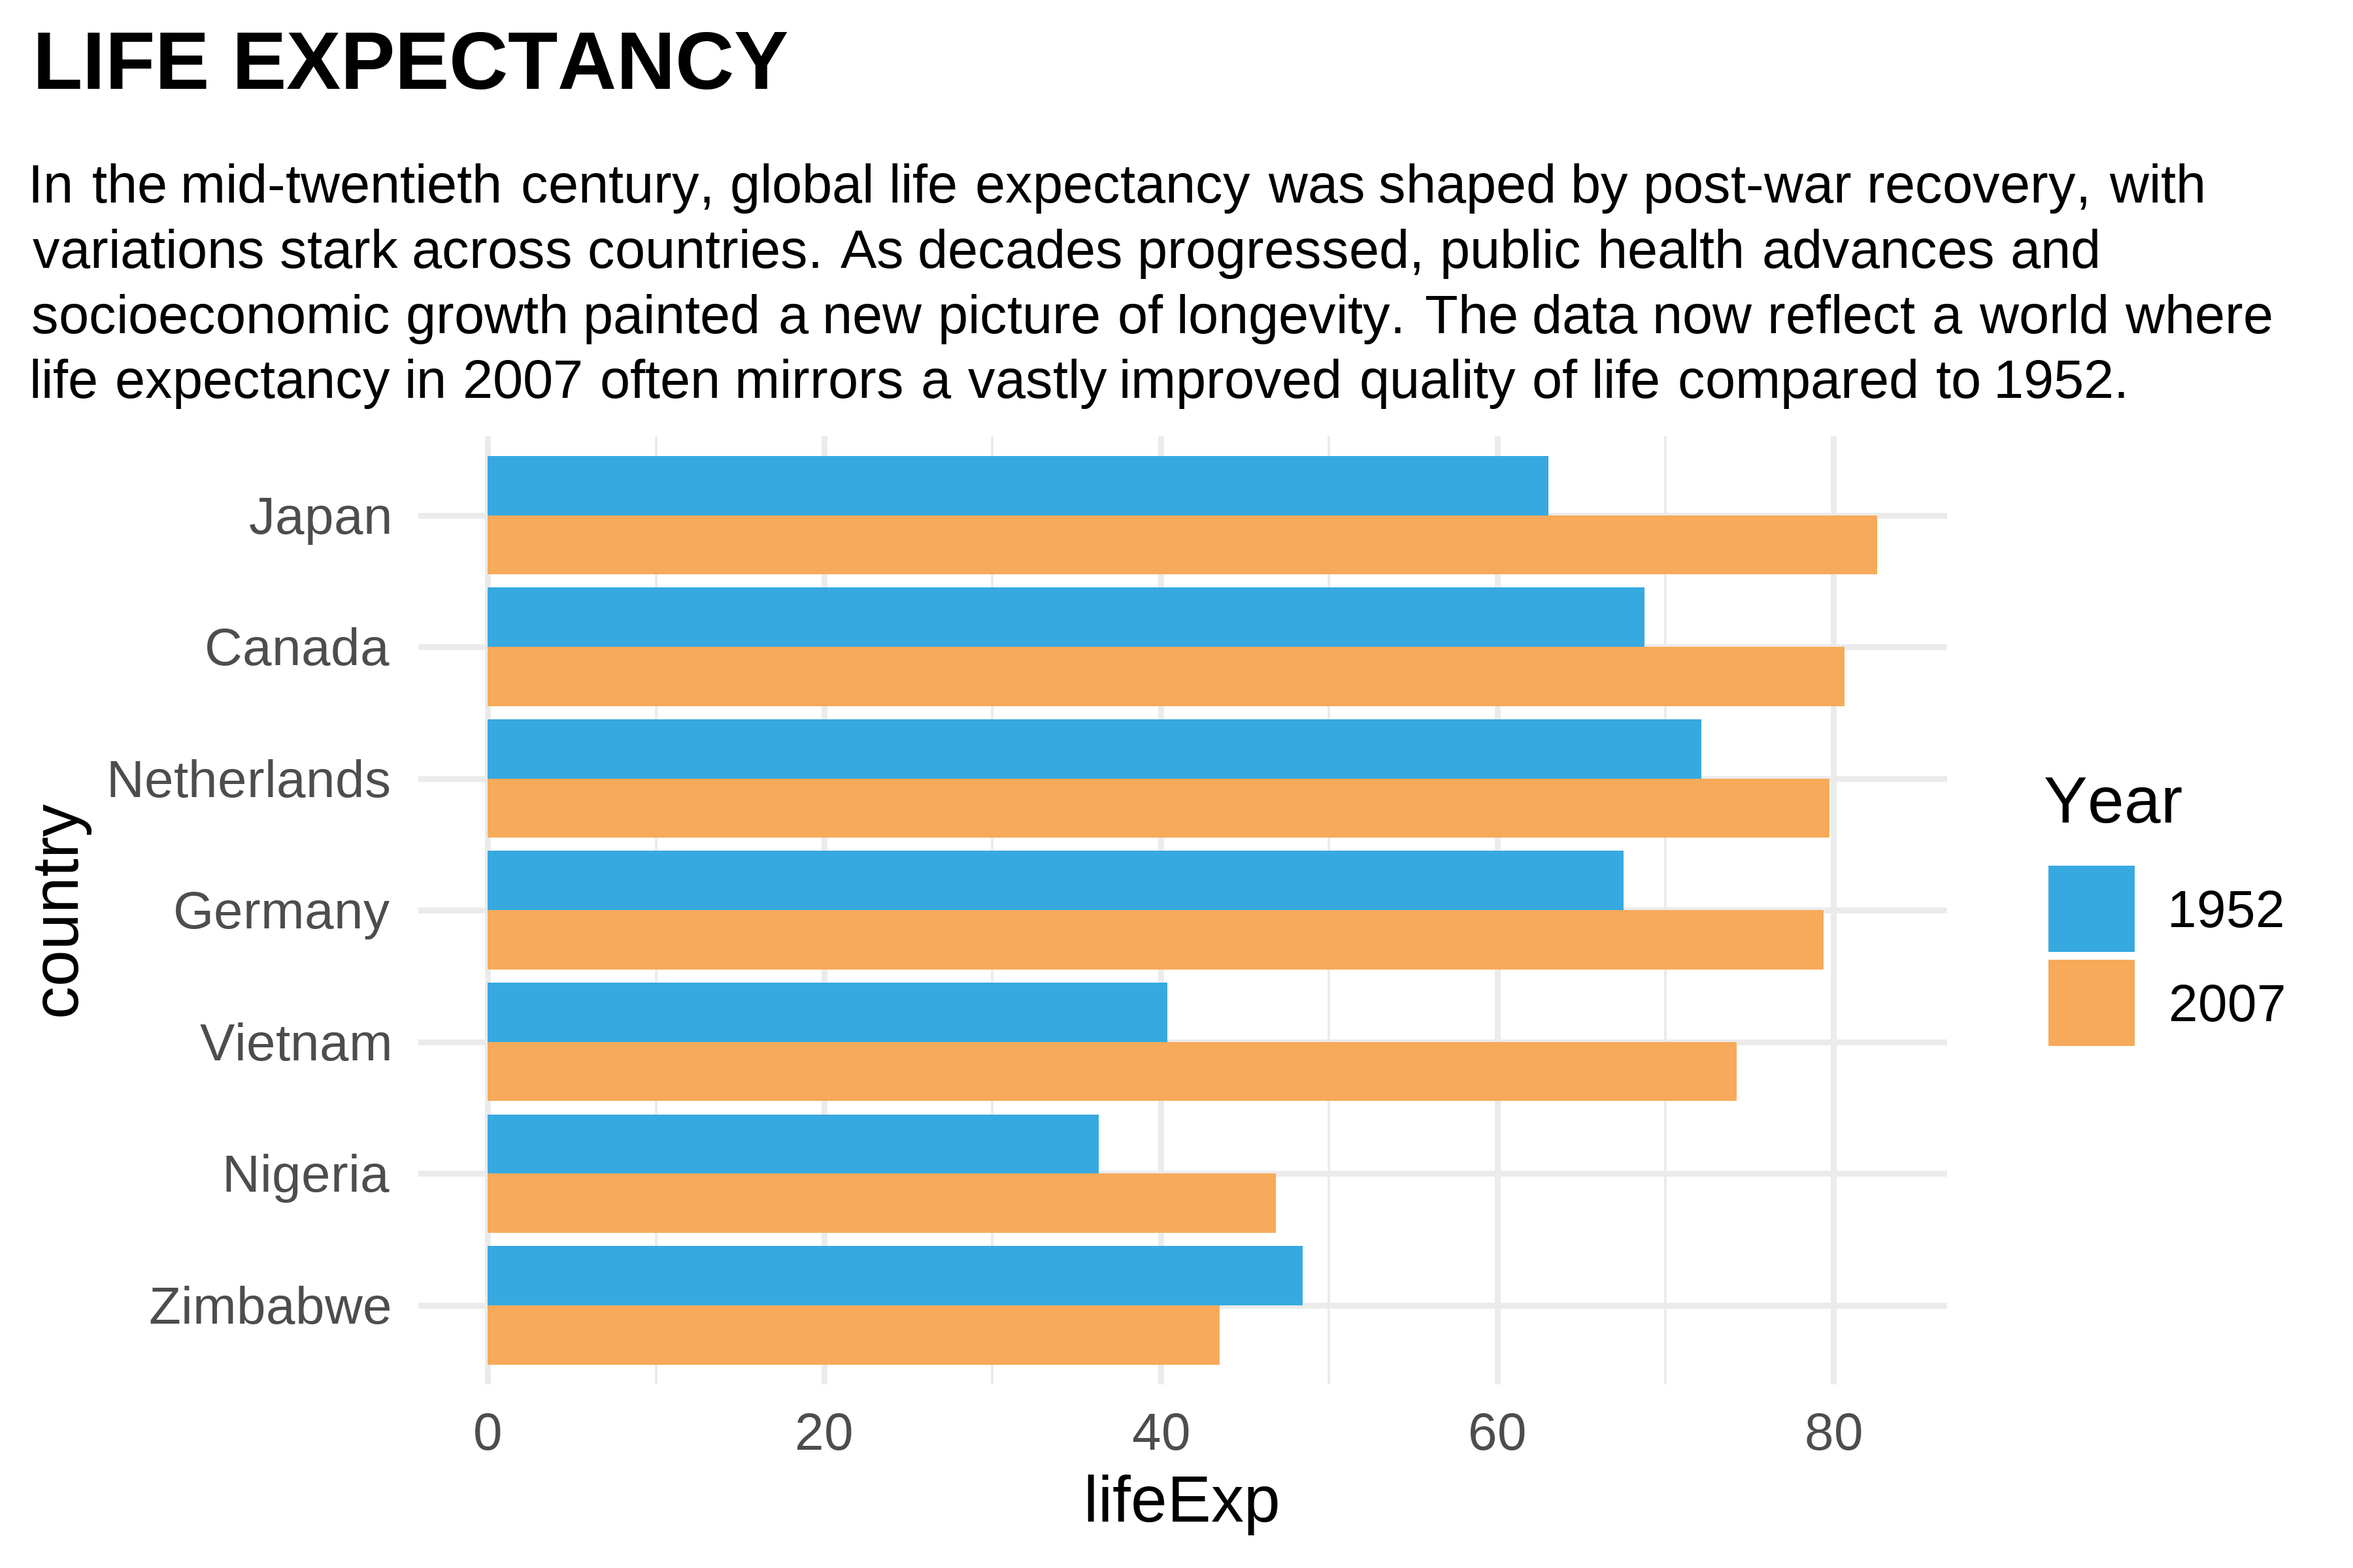
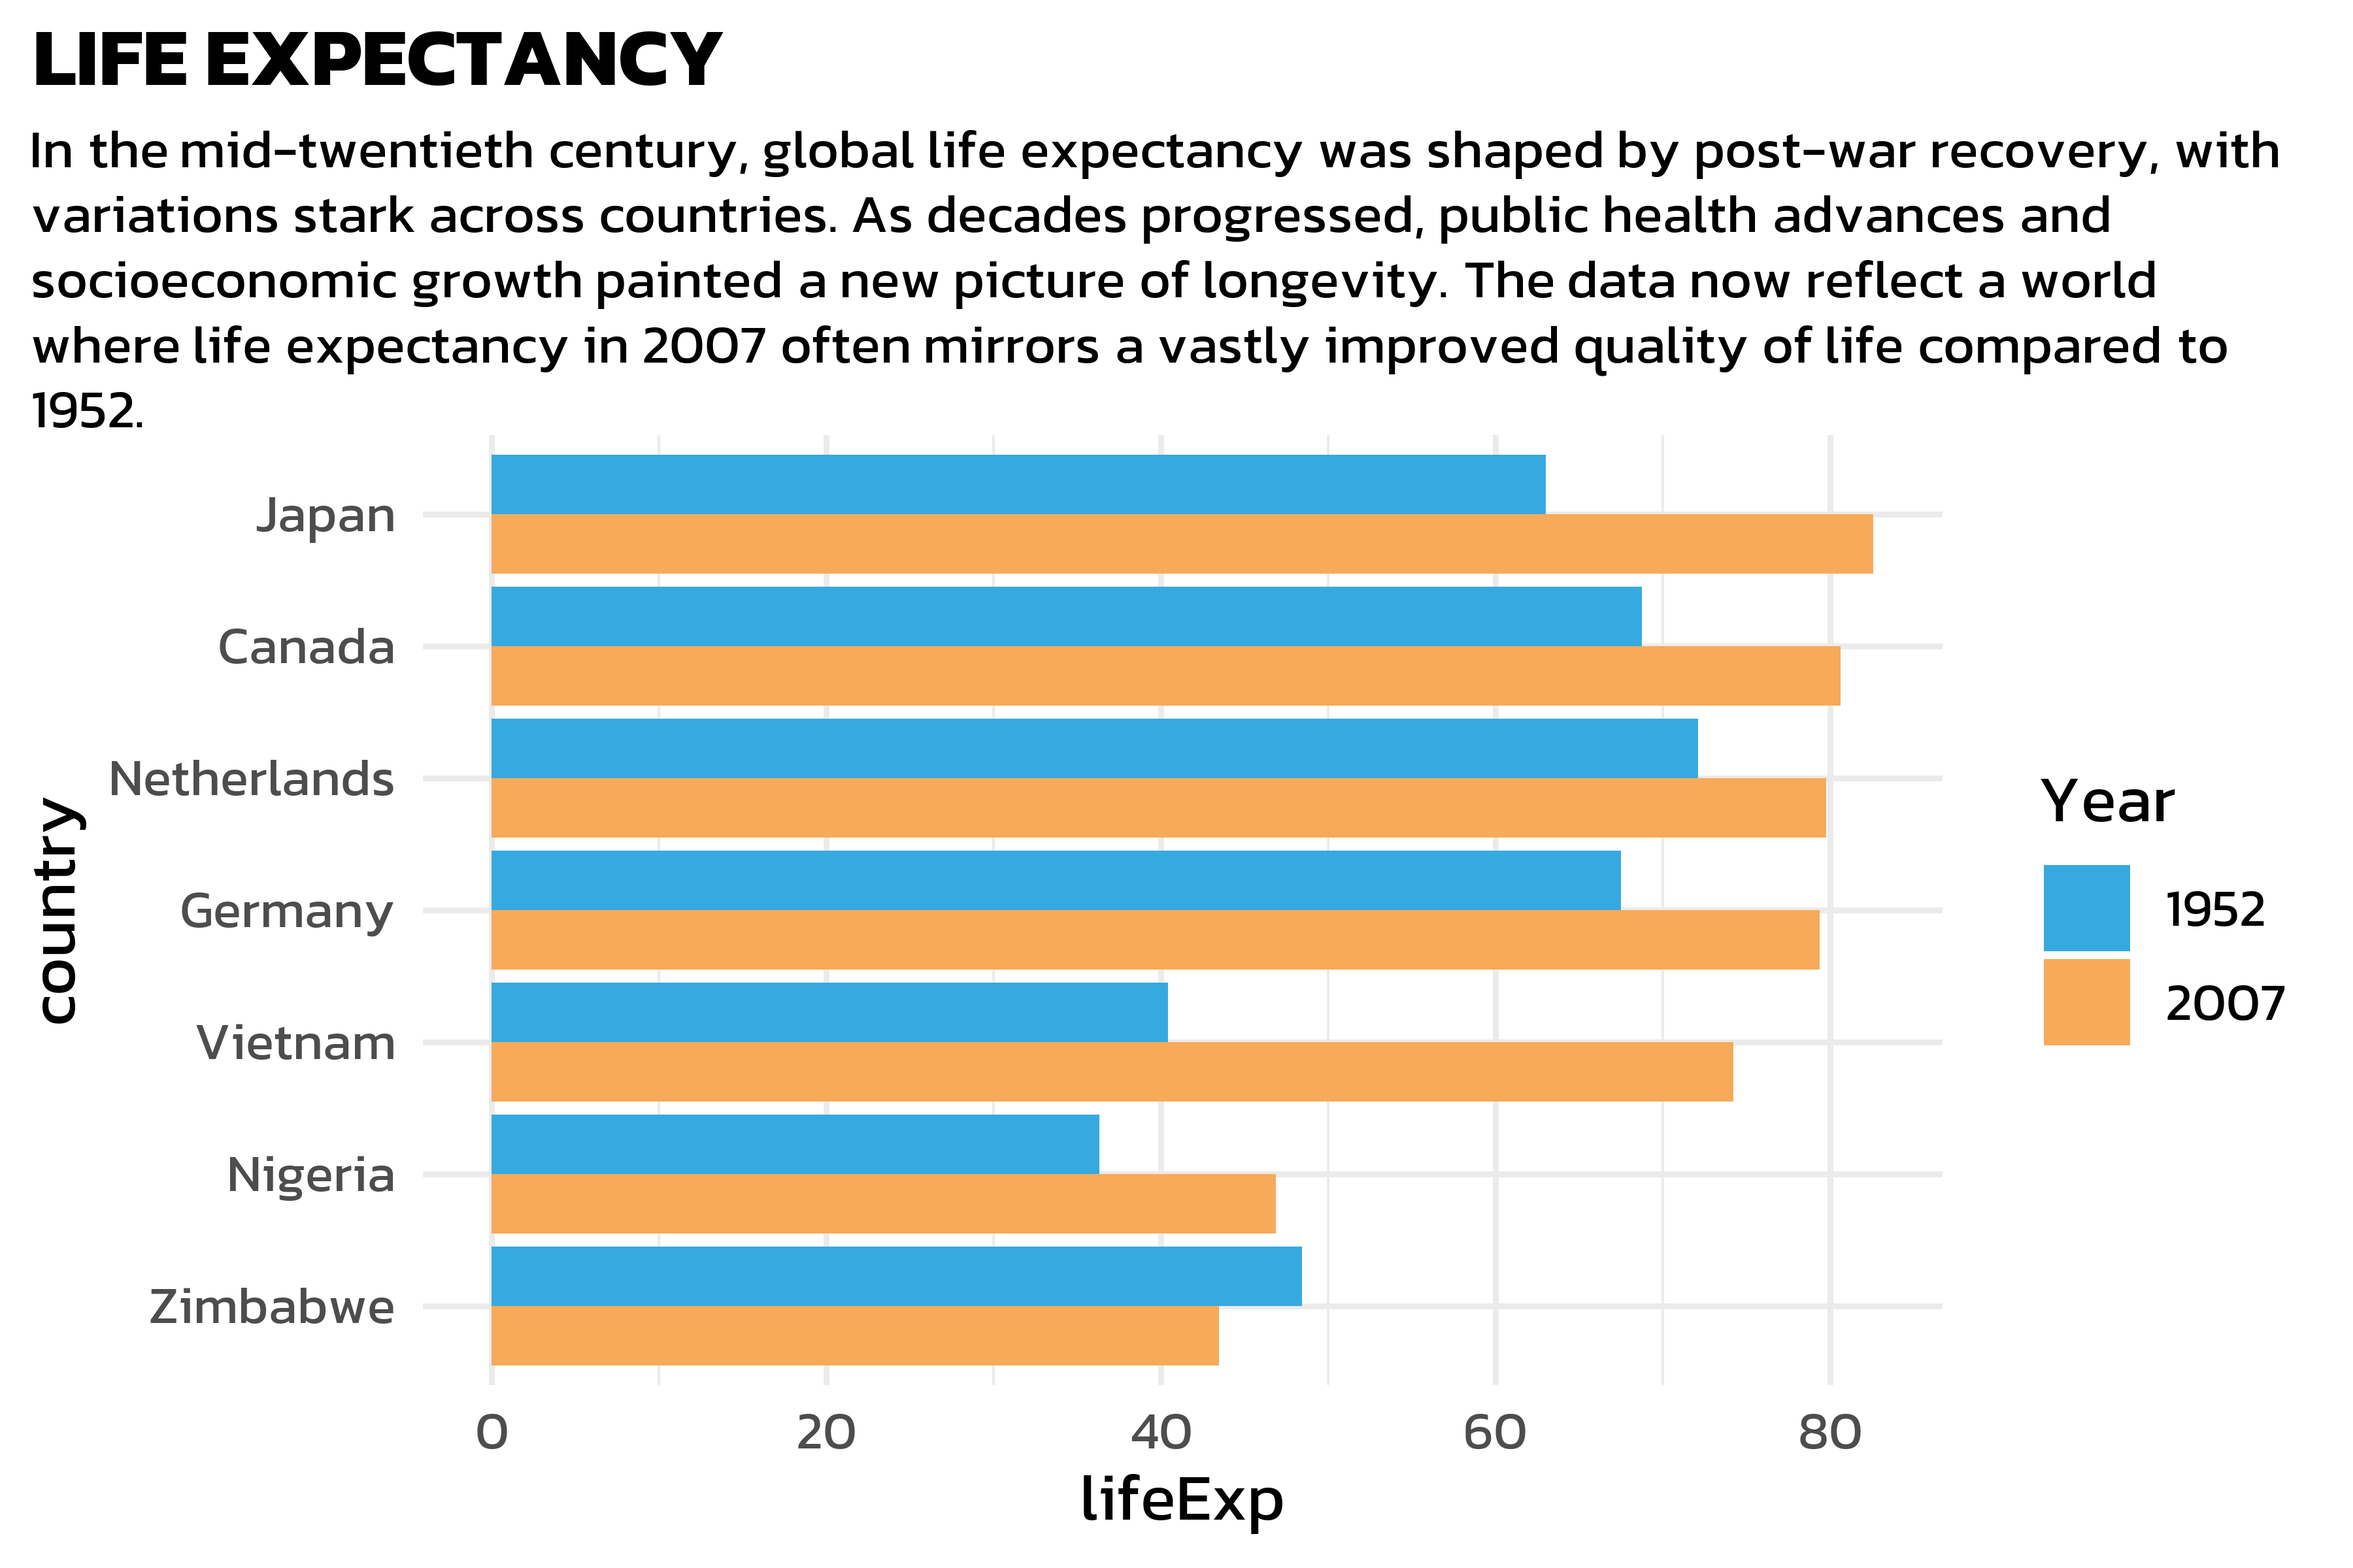
forgot about custom font

diff --git a/docs/index.html b/docs/index.html
@@ -453,13 +453,14 @@ pre > code.sourceCode > span > a:first-child::before { text-decoration: underlin
 <span id="cb18-10"><a href="#cb18-10" aria-hidden="true" tabindex="-1"></a>    <span class="at">title =</span> <span class="st">"LIFE EXPECTANCY"</span>,</span>
 <span id="cb18-11"><a href="#cb18-11" aria-hidden="true" tabindex="-1"></a>    <span class="at">subtitle =</span> long_subtitle</span>
 <span id="cb18-12"><a href="#cb18-12" aria-hidden="true" tabindex="-1"></a>  ) <span class="sc">+</span></span>
-<span id="cb18-13"><a href="#cb18-13" aria-hidden="true" tabindex="-1"></a>  <span class="fu">theme</span>(</span>
-<span id="cb18-14"><a href="#cb18-14" aria-hidden="true" tabindex="-1"></a>    <span class="at">plot.title.position =</span> <span class="st">"plot"</span>,</span>
-<span id="cb18-15"><a href="#cb18-15" aria-hidden="true" tabindex="-1"></a>    <span class="at">plot.title =</span> <span class="fu">element_text</span>(<span class="at">size =</span> <span class="dv">15</span>, <span class="at">face =</span> <span class="st">"bold"</span>),</span>
-<span id="cb18-16"><a href="#cb18-16" aria-hidden="true" tabindex="-1"></a>    <span class="at">plot.subtitle =</span> ggtext<span class="sc">::</span><span class="fu">element_textbox_simple</span>(<span class="at">size =</span> <span class="dv">10</span>, <span class="at">margin =</span> <span class="fu">margin</span>(<span class="dv">5</span>, <span class="dv">0</span>, <span class="dv">5</span>, <span class="dv">0</span>))</span>
-<span id="cb18-17"><a href="#cb18-17" aria-hidden="true" tabindex="-1"></a>  )</span>
-<span id="cb18-18"><a href="#cb18-18" aria-hidden="true" tabindex="-1"></a></span>
-<span id="cb18-19"><a href="#cb18-19" aria-hidden="true" tabindex="-1"></a>p</span></code><button title="Copy to Clipboard" class="code-copy-button"><i class="bi"></i></button></pre></div>
+<span id="cb18-13"><a href="#cb18-13" aria-hidden="true" tabindex="-1"></a>  <span class="fu">theme</span>(<span class="at">text =</span> <span class="fu">element_text</span>(<span class="at">family =</span> <span class="st">"kanit"</span>)) <span class="sc">+</span></span>
+<span id="cb18-14"><a href="#cb18-14" aria-hidden="true" tabindex="-1"></a>  <span class="fu">theme</span>(</span>
+<span id="cb18-15"><a href="#cb18-15" aria-hidden="true" tabindex="-1"></a>    <span class="at">plot.title.position =</span> <span class="st">"plot"</span>,</span>
+<span id="cb18-16"><a href="#cb18-16" aria-hidden="true" tabindex="-1"></a>    <span class="at">plot.title =</span> <span class="fu">element_text</span>(<span class="at">size =</span> <span class="dv">15</span>, <span class="at">face =</span> <span class="st">"bold"</span>),</span>
+<span id="cb18-17"><a href="#cb18-17" aria-hidden="true" tabindex="-1"></a>    <span class="at">plot.subtitle =</span> ggtext<span class="sc">::</span><span class="fu">element_textbox_simple</span>(<span class="at">size =</span> <span class="dv">10</span>, <span class="at">margin =</span> <span class="fu">margin</span>(<span class="dv">5</span>, <span class="dv">0</span>, <span class="dv">5</span>, <span class="dv">0</span>))</span>
+<span id="cb18-18"><a href="#cb18-18" aria-hidden="true" tabindex="-1"></a>  )</span>
+<span id="cb18-19"><a href="#cb18-19" aria-hidden="true" tabindex="-1"></a></span>
+<span id="cb18-20"><a href="#cb18-20" aria-hidden="true" tabindex="-1"></a>p</span></code><button title="Copy to Clipboard" class="code-copy-button"><i class="bi"></i></button></pre></div>
 <div class="cell-output-display">
 <p><img src="index_files/figure-html/unnamed-chunk-16-1.png" class="img-fluid" width="1800"></p>
 </div>
